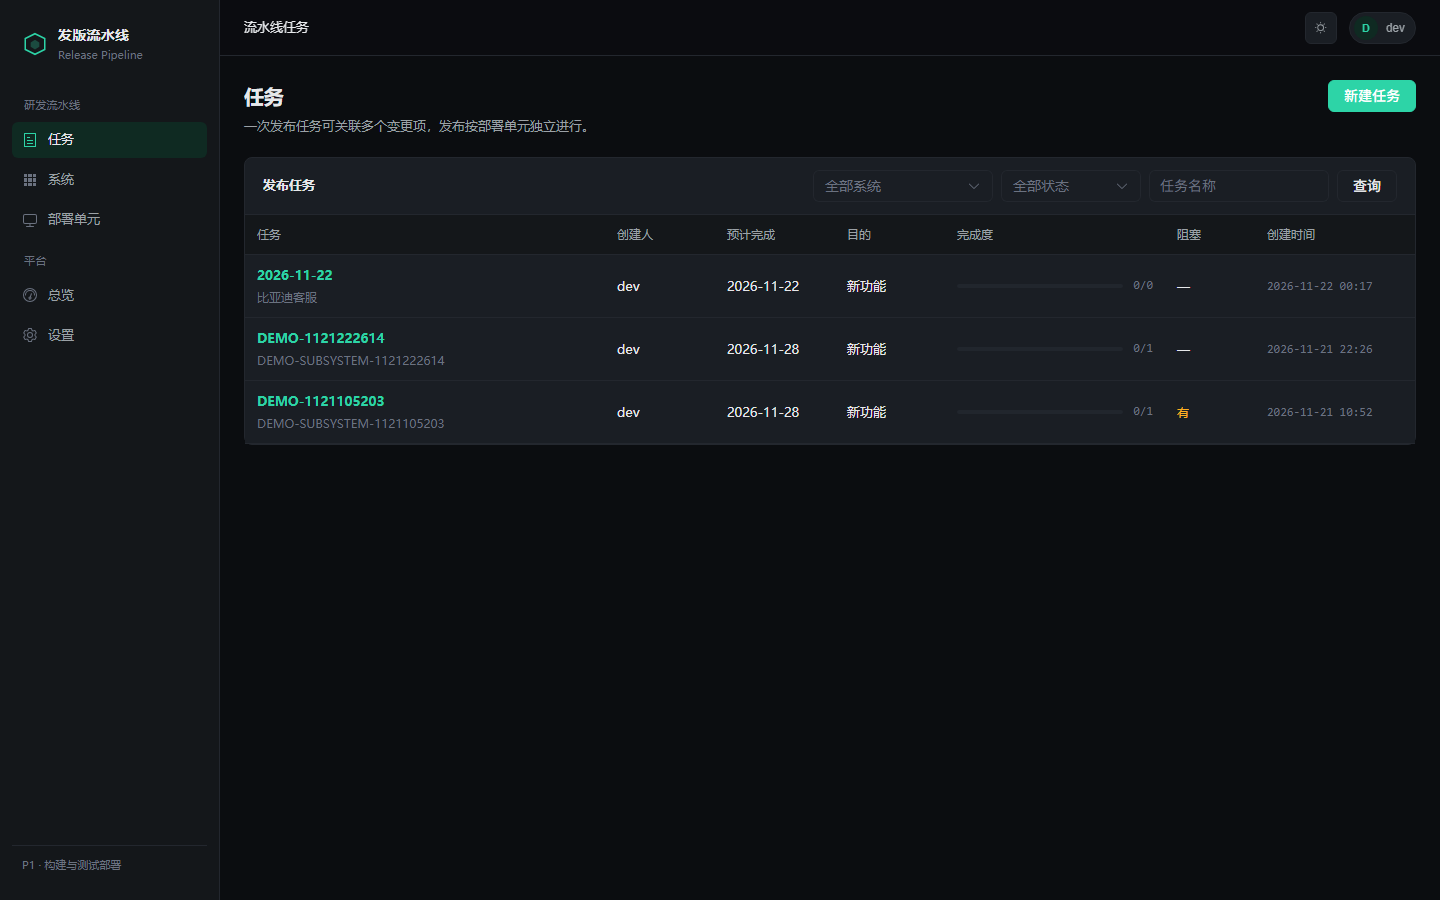
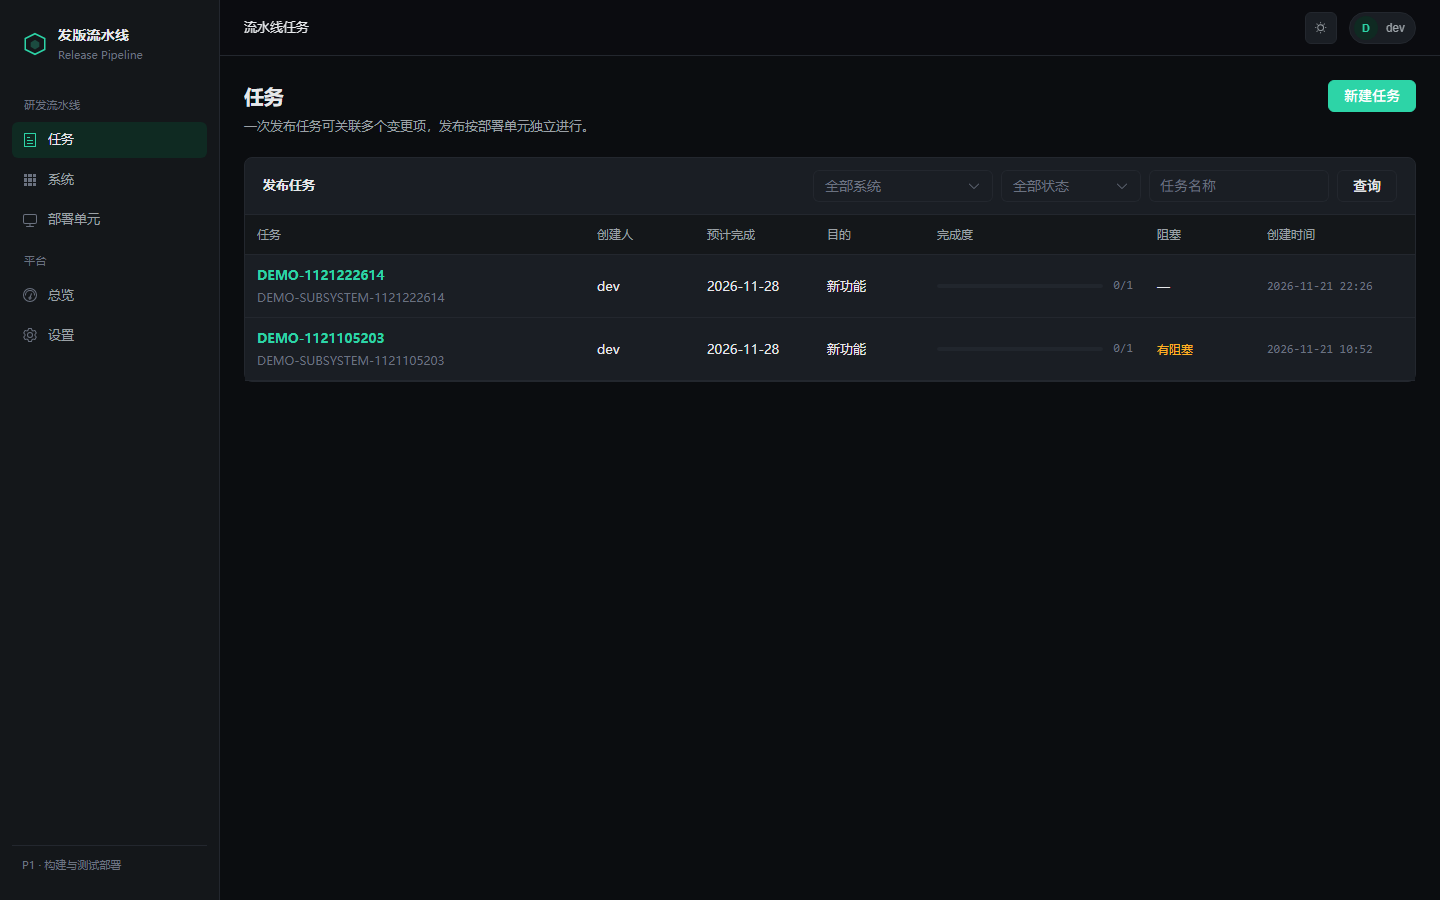
docs: P2 门禁 task-level plan; polish the task list blocking label
The plan turns the P1 PAUSED boundary into a business state: gate_check/gate_waiver
data model, gate start/query through the same endpoint-template adapter, gate
evaluation writing gate_status, test pass/fail/revoke, production admission, the
VERIFY handler, and C16 invalidation (never roll back a batch that already shipped).
Six decisions are listed for sign-off (check source, severity mapping, waiver
approver, who may pass tests, invalidation behaviour, timeout).

Also: 阻塞 now reads 有阻塞 (it was clipped to 有 by a 90px column) and the empty
date-named task from earlier smoke testing is gone from the local dataset.

diff --git a/web/src/views/TaskListView.vue b/web/src/views/TaskListView.vue
@@ -141,9 +141,9 @@ async function submitCreate() {
             </div>
           </template>
         </el-table-column>
-        <el-table-column label="阻塞" width="90">
+        <el-table-column label="阻塞" width="110">
           <template #default="{ row }">
-            <span class="small" :class="{ 'text-warn': row.hasBlocking }">{{ row.hasBlocking ? '有' : '—' }}</span>
+            <span class="small" :class="{ 'text-warn': row.hasBlocking }">{{ row.hasBlocking ? '有阻塞' : '—' }}</span>
           </template>
         </el-table-column>
         <el-table-column label="创建时间" width="160">

diff --git a/docs/superpowers/plans/2026-11-22-release-pipeline-p2-gate.md b/docs/superpowers/plans/2026-11-22-release-pipeline-p2-gate.md
@@ -1,0 +1,128 @@
+# 发版流水线 · P2 实施计划（门禁 / 验证确认 / 生产准入）
+
+> **状态**：待评审。P1 已交付（构建 + 测试部署，`VERIFY` 处 `PAUSED`）；本计划把流水线从「测试部署完成」推进到「可提交生产」，并补齐门禁的判定、豁免、撤回与失效语义。
+>
+> **Spec**：`docs/requirements/发版流水线-需求规格说明书.md` v1.5（C9 / C16 / C18 / C19 / C23、4.3 门禁并行时序、4.6 门禁失效、FR-P-04）
+> **Tech design**：`docs/tech-design/发版流水线-技术方案-v1.0.md`（§5.2 状态机、§6 CODING 集成层、§7 门禁）
+> **P1 台账**：`docs/superpowers/plans/2026-11-21-p1-execution-ledger.md`（R5 明确要求 P2 补 PAUSED 的恢复与告警）
+
+## 范围
+
+**做**：门禁数据模型与结果回传、检查项汇总、测试通过/不通过/撤回、生产准入判定、`VERIFY` 节点处理器（把 P1 的 `PAUSED` 边界推进为可执行节点）、门禁失效语义、验证确认前端面板。
+
+**不做**（留到 P3/P4）：生产审批与窗口/封板（P3）、生产部署批次执行（P3）、回滚（P3）、日常发布（P4）、写基线与合并（二期，C25）、二方库制品入库。
+
+## 复用 P1 的既有地基（不要重造）
+
+- `release_item.gate_status`（正交维度）与 `ItemEvent.GATE_PASS/GATE_FAIL` 已在 V7 + 状态机里；P2 只补**产生**这两个事件的判定。
+- `ItemStatus` 已有 `GATE_PENDING / GATE_FAILED / READY`，`ItemStateMachine` 的静态迁移矩阵已覆盖，P2 不改矩阵，除非要新增事件。
+- `pipeline_instance.test_ready_at`（V9 CAS 认领）已存在：门禁的「可开测」信号就是它，不要新增第二套就绪标志。
+- `NodeHandlerRegistry` 的「缺失处理器 → PAUSED」是 P1 的显式边界；P2 用真正的 `VERIFY` 处理器替换它，`PAUSED` 语义改为**门禁未满足**而不是「功能未交付」。
+- `coding-endpoints.yml` 的端点模板机制：检查类接口同样走配置，不写死路径。
+
+## 关键决策（实施前需拍板）
+
+| # | 决策 | 建议默认 | 影响 |
+|---|---|---|---|
+| D1 | 检查项来源：本地引擎 / 复用 CODING / 外部 Sonar+扫描平台 | 复用 `CicdEngine` 端点模板，新增 `check.start` / `check.query`，先接一个 mock 适配 | 决定 `coding-endpoints.yml` 的形状 |
+| D2 | 检查等级与结论映射（高危/中危/低危 → 阻断/可豁免/仅告警） | 高危=阻断且不可豁免；中危=可豁免（需审批人）；低危=仅告警 | 决定豁免接口与 UI |
+| D3 | 豁免审批人 | 平台管理员或运维组长，且**不能自审**（沿用 C19 精神） | 决定权限点 |
+| D4 | 「测试通过」的资格 | 任务成员中的 TEST 角色，任一人通过即通过（C18）；撤回仅本人 | 决定成员校验 |
+| D5 | 门禁失效时的生产者动作（C16） | 已上线批次不回滚；后续批次暂停为 `PAUSED`，运维显式继续/停止 | 决定 P3 的批次执行接口 |
+| D6 | 检查超时 | 单项默认 30 分钟，超时判 `TIMEOUT`，门禁记未通过 | 决定 ReconcileJob 扩展 |
+
+---
+
+## 任务分解
+
+### T1 门禁数据模型（V17）
+
+- **目标**：`gate_check`（检查项实例）+ `gate_waiver`（豁免）两张表，挂在 `release_item` 上，按 `(item_id, check_kind, stage)` 去重。
+- **要点**：检查项按阶段（`IMAGE` / `ENV`）分组；每条记录等级、结论、外部 id、耗时、结果摘要；豁免记录申请人/审批人/理由/到期时间。
+- **测试**：迁移可重入；同一 `(item_id, check_kind)` 二次回传不产生重复行（唯一键）；豁免到期字段可空但一旦填写不得早于创建时间。
+- **完成标准**：`mvn -q verify` 绿；表结构与需求 4.3 的门禁维度一致。
+
+### T2 检查项触发与回传（引擎适配）
+
+- **目标**：`gate.start` 触发一组检查、`gate.query` 轮询单项状态；结果写 `gate_check`。
+- **要点**：完全复用 `EndpointTemplateResolver` / `EngineHttpClient` / HTTPS 与脱敏规则；新增动作在 YAML 里，Java 只加一个 `GateEngine` 端口 + CODING 实现；引擎不可用时检查项记 `UNKNOWN` 而不是「通过」。
+- **测试**：MockWebServer 覆盖正常/超时/非 HTTPS；`UNKNOWN` 不改变门禁结论但会阻止准入。
+- **完成标准**：断网时门禁显示「检查未完成」，绝不显示「通过」。
+
+### T3 门禁汇总与判定
+
+- **目标**：`GateService.evaluate(itemId)` → `(已通过 n / 总数 m, 最高缺陷等级, 结论)`；写 `release_item.gate_status` 并发 `GATE_PASS` / `GATE_FAIL`。
+- **要点**：结论只看**未豁免的阻断项**；「全量检查通过或豁免」+「测试通过」两者同时满足才是准入；判定结果附带计算过程（前端要展示）。
+- **测试**：部分通过 + 一项中危豁免 → 通过；高危未豁免 → 阻断且不可豁免；检查未完成 → `CHECK_RUNNING` 而非通过。
+- **完成标准**：`gate_status` 与 `item.status` 正交，不互相改写。
+
+### T4 测试通过 / 不通过 / 撤回
+
+- **目标**：三个动作的权限与留痕：任一人通过即通过（C18）；只有**本人**能撤回（C19），撤回后 `gate_status` 回退到 `TEST_PENDING`；所有人可看不通过原因。
+- **要点**：写 `last_test_pass_by/at`（P1 已有列）；撤回要求理由；owner/管理员代撤被拒绝（40009）。
+- **测试**：非成员 TEST 角色被拒；第二人通过不改第一人记录但状态仍通过；他人撤回被拒；撤回后再次通过可恢复。
+- **完成标准**：每条动作都有可查询的留痕（谁、何时、理由）。
+
+### T5 生产准入与 PROD 节点的门禁校验
+
+- **目标**：准入不足时提交生产返回 40011（带缺失项集合）；`ProdDeployNodeHandler` 在开跑前二次校验镜像一致（C23）与门禁仍有效。
+- **要点**：P1 已有 `publish requires ≥1 TEST DE / ≥1 PROD DE` 的 40011 结构，沿用同一错误形状；镜像 digest 不一致时阻断且**不可豁免**。
+- **测试**：门禁通过但测试未通过 → 拒绝；两者通过但镜像 digest 不一致 → 拒绝且无豁免路径。
+- **完成标准**：拒绝原因能直接展示为「还缺什么」。
+
+### T6 VERIFY 节点处理器（替掉 PAUSED）
+
+- **目标**：`VerifyNodeHandler` 在测试就绪后开跑检查，检查过程中节点为 `RUNNING`；检查未完成时节点停在 `RUNNING` 且 `status_reason=WAITING_CHECKS`，而不是实例 `PAUSED`。
+- **要点**：`PAUSED` 保留给「门禁阻断需人工介入」与「门禁失效」两种显式情况；恢复动作（`POST /releases/{publishNo}/resume`）只在门禁重新满足时可调用。
+- **测试**：检查未完成 → 不推进；检查通过 + 测试通过 → 节点 `SUCCESS` 并推进到 `PROD_DEPLOY`；门禁失效 → `PAUSED` 且 `resume` 被拒直到恢复。
+- **完成标准**：P1 的「PAUSED 是功能边界」变成「PAUSED 是业务状态」，且有恢复入口（R5）。
+
+### T7 门禁失效与批次暂停（C16）
+
+- **目标**：生产已开跑后门禁失效（检查转失败/豁免到期/测试撤回）→ 记录失效原因、后续批次暂停；**绝不回滚已上线批次**。
+- **要点**：失效事件写 `pipeline_item_failure`（P1 已有）；后续批次状态置 `PAUSED`，运维显式 `继续/停止`。
+- **测试**：已成功批次保持 `SUCCESS`；下一批不启动；恢复后从暂停批次继续，不重复已成功批次。
+- **完成标准**：任何失效都不会产生自动回滚。
+
+### T8 验证确认前端面板
+
+- **目标**：发布内容页的「验证确认」节点展开为检查项分组表 + 门禁账（已通过 5/7、最高等级、结论）+ 测试通过/不通过/撤回按钮 + 准入结论与计算过程。
+- **要点**：沿用石墨风格；状态用色点，等级用文字标签（高危红、中危琥珀、低危灰）；按钮按权限与状态禁用并给出原因（`title`）；两栏布局与 P1 一致。
+- **测试**：`npm run build` 通过；浅/深两套截图；无权限用户看到禁用态而不是隐藏。
+- **完成标准**：不用看日志就能回答「为什么还不能上生产」。
+
+### T9 豁免与到期
+
+- **目标**：中危检查项可申请豁免（理由 + 到期时间），审批通过后计入「通过」；到期自动失效并把门禁打回未通过。
+- **要点**：高危不可豁免（接口直接拒绝）；豁免到期由 `ReconcileJob` 每天扫描一次；到期失效同样走 C16。
+- **测试**：高危申请被拒；未审批的豁免不计入门禁；到期后 `gate_status` 回退且留痕。
+- **完成标准**：豁免率可统计（需求 4.x 的「豁免率」指标）。
+
+### T10 端到端与文档
+
+- **目标**：`P2BoundaryEndToEndTest`：发布 → 构建 → 测试部署 → 检查回传 → 测试通过 → 准入可提交；引擎用 stub，检查用 mock。
+- **要点**：覆盖三条失败路径（检查未完成、检查高危、测试撤回后准入失效）；同时更新需求 §4.3 的时序图与前端设计文档。
+- **完成标准**：`mvn -q verify` 全绿；`docs/` 与实现一致，台账记录本轮裁决。
+
+---
+
+## 顺序与依赖
+
+```
+T1 ──▶ T2 ──▶ T3 ──▶ T4 ──▶ T5 ──▶ T6 ──▶ T7
+                         │        │
+                         └──▶ T9  └──▶ T8（可并行，接口先冻结）
+                                       └──▶ T10
+```
+
+- T1/T2 有外部不确定性（D1：检查接口形状），先做 T1 + T2 的 mock 适配，真实接口到位只改 YAML。
+- T8 只依赖 T3/T4/T5 的读模型，可与 T6/T7 并行。
+- 每个任务结束都要 `mvn -q verify` 全绿、一次提交只做本任务。
+
+## 验收口径
+
+- 门禁的四类结论（检查中 / 通过 / 阻断 / 可豁免）都能在页面上看到，并且与 `gate_status` 一一对应；
+- 准入不足时提交生产被拒，提示里能列出缺失项；
+- 检查未完成永远不会被当成「通过」；
+- 门禁失效只影响**未发生**的动作，已上线批次不回滚；
+- PAUSED 有原因、有恢复入口、有告警（R5 关闭）。
